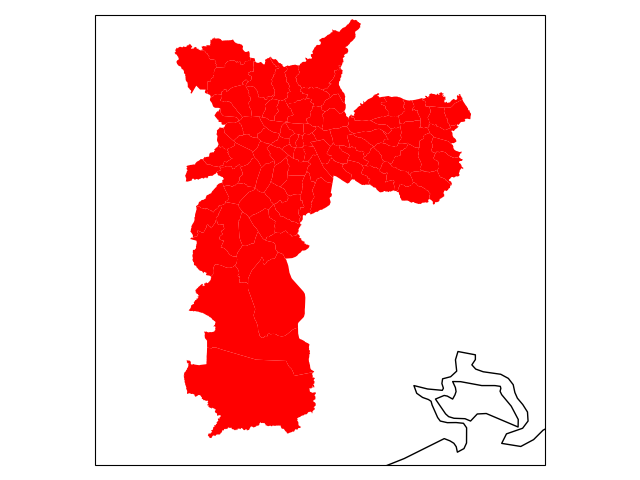
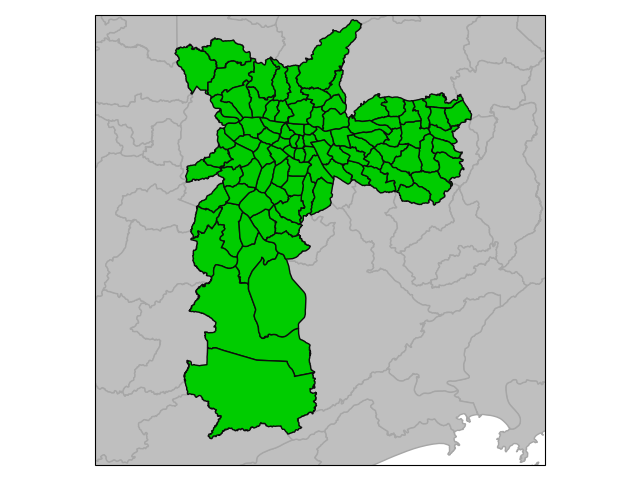
mapas mais bem polidos

diff --git a/main.py b/main.py
@@ -29,6 +29,8 @@ distritos_vector: gdal.Dataset = ogr.Open("from/Acesso GIS/DISTRITOS_SIRGAS2000.
 acesso_vector: gdal.Dataset = ogr.Open("from/Acesso GIS/acess_spo_metros.gpkg")
 censo_vector: gdal.Dataset = ogr.Open("from/Acesso GIS/densidade_demografica.shp")
 
+cidades_loc = "from/Acesso GIS/SP_Municipios_2024"
+
 acesso_layer: osgeo.ogr.Layer = acesso_vector.GetLayer(0)
 # print(acesso_vector.GetProjectionRef())
 
@@ -67,9 +69,6 @@ minutos = {
 	"120": "120 minutos"
 }
 
-# P001 pessoas no total ...
-# CMAEF30 -> Número de escolas de ensino fundamental acessíveis em até 30 minutos
-
 transport_modes = {
 	'bicycle': 'bicicleta',
 	'walk': 'andando',
@@ -78,6 +77,9 @@ transport_modes = {
 }
 
 years = { '2017': 2017, '2018': 2018, '2019': 2019 }
+
+# P001 pessoas no total ...
+# CMAEF30 -> Número de escolas de ensino fundamental acessíveis em até 30 minutos
 
 # print("Coletando lista de rótulos...")
 
@@ -118,7 +120,7 @@ def make_bar(title,x_axis,y_axis,filename):
 	plt.title("\n".join(textwrap.wrap(title + ' (mais altos)',40)),loc='center',)
 	plt.barh(x_axis[-15:],y_axis[-15:],color='purple',height=1)
 	plt.tight_layout()
-	plt.savefig('to/modalidades_graficos_redux/'+filename+'_most_'+'.png')
+	plt.savefig('to/modalidades_graficos_redux/'+filename+'_most'+'.png')
 
 	plt.figure(figsize=(10, 15), dpi=400)
 	plt.yticks(rotation=15)
@@ -126,7 +128,7 @@ def make_bar(title,x_axis,y_axis,filename):
 	plt.barh(x_axis[:15],y_axis[:15],color='purple',height=1)
 	plt.barh(x_axis[-15:],y_axis[-15:],color='purple',height=1)
 	plt.tight_layout()
-	plt.savefig('to/modalidades_graficos_redux/'+filename+'_both_'+'.png')
+	plt.savefig('to/modalidades_graficos_redux/'+filename+'_both'+'.png')
 
 def gen_table(data, modality: string, modality_description: string, year, transport_mode):
 	dataframe = pd.DataFrame(columns=[
@@ -142,14 +144,29 @@ def gen_table(data, modality: string, modality_description: string, year, transp
 	dataframe = dataframe.sort_values('data_average')
 	make_bar(modality_description + ' normalizado por pontos de referência',dataframe['distrito_nome'],dataframe['data_average'],modality + '_' + year + '_' + transport_mode + '_area')
 
+#FIXME talvez sejam os nomes normalizados q estejam zoando com os dados
+
 def make_map(title, data_loc):
+	global cidades_loc
 	plt.figure()
 	ax: plt.Axes = plt.axes(projection=ccrs.PlateCarree())
 	ax.set_extent([-46.95, -46.25, -23.35, -24.05], crs=ccrs.PlateCarree())
-	ax.coastlines()
+	# ax.coastlines()
+
+	read = shpreader.Reader(cidades_loc)
+	for geometry in read.geometries():
+		shape_feature = ShapelyFeature(geometry,ccrs.PlateCarree(),
+		facecolor=(.75,.75,.75),
+		edgecolor=(.65,.65,.65)
+	)
+		ax.add_feature(shape_feature)
+
 	read = shpreader.Reader(data_loc)
 	for geometry in read.geometries():
-		shape_feature = ShapelyFeature(geometry,ccrs.PlateCarree(), facecolor=(1,0,0))
+		shape_feature = ShapelyFeature(geometry,ccrs.PlateCarree(),
+			facecolor=(0,.8,0),
+			edgecolor=(.05,.05,.05)
+		)
 		ax.add_feature(shape_feature)
 	plt.tight_layout()
 	plt.savefig('coastlines.png')
@@ -235,8 +252,12 @@ def calculate_for_divisions(features: gdal.Dataset, modality: string, tipo, indi
 		if population_sum > 0:
 			data_by_population = data_times_sum / population_sum
 
+		data_average = 0
 		if hit_sum > 0:
 			data_average = data_sum / hit_sum
+
+		print(distrito_nome,'data avg',data_average)
+		print(hit_sum,':',data_sum)
 
 		table_data = {
 			"distrito_nome": distrito_nome,
